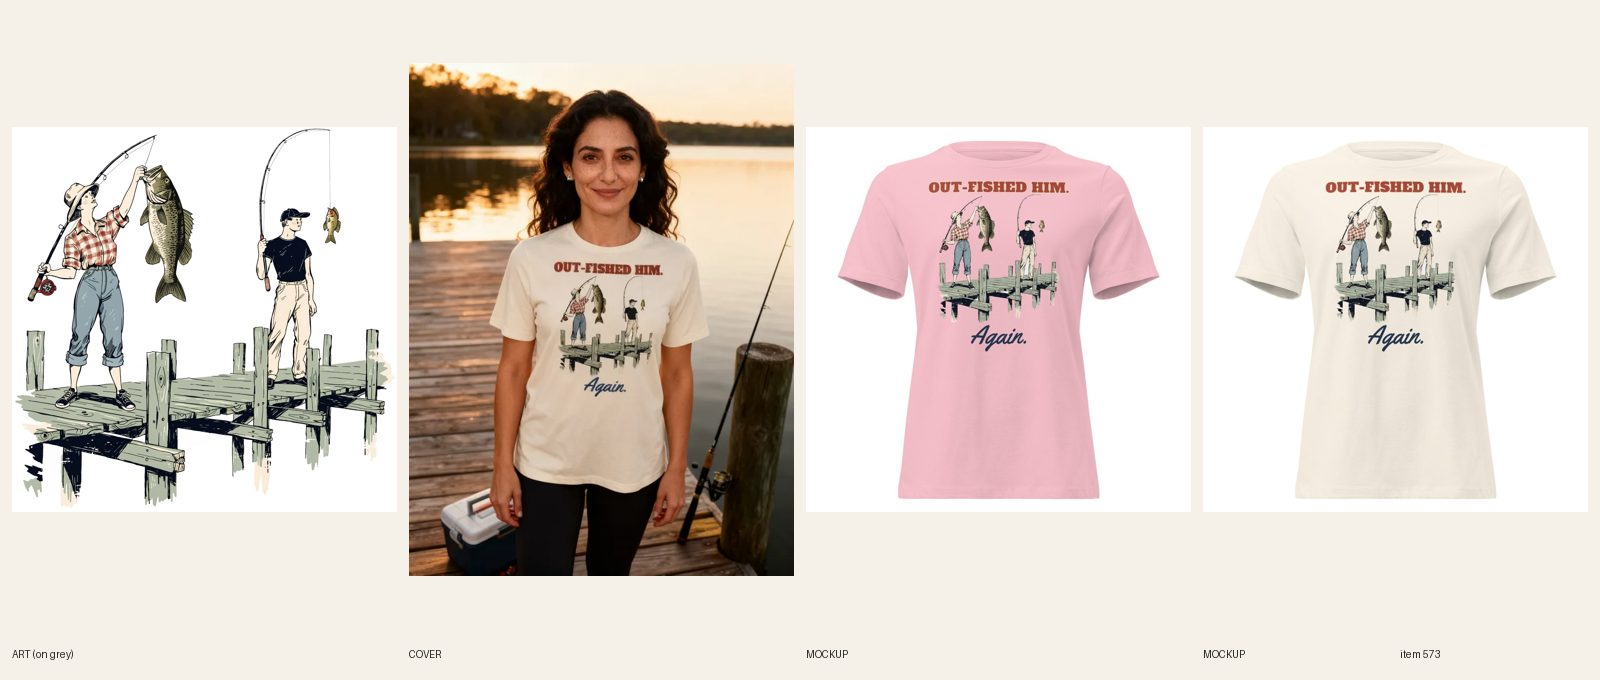
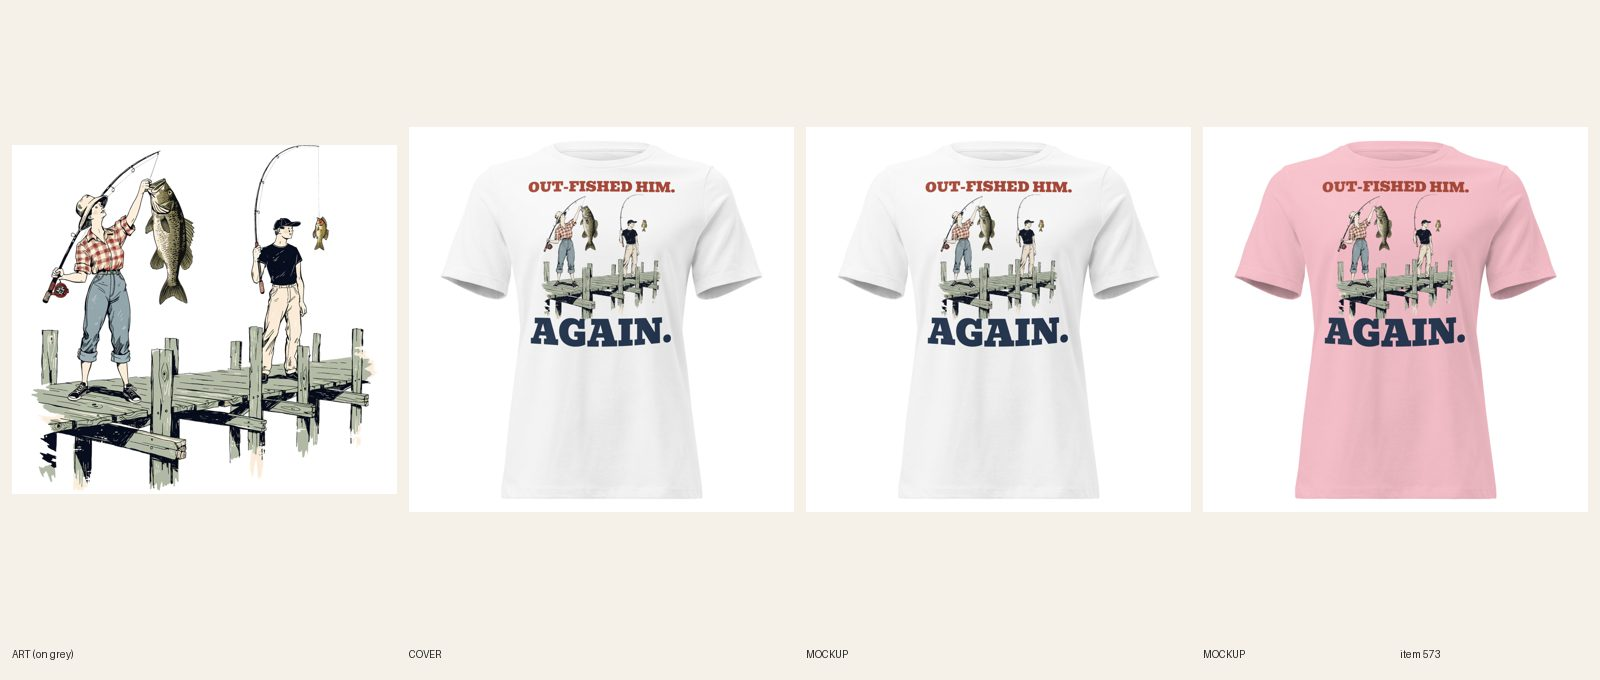
[B] review 573 Fishing tee redo (type)

diff --git a/docs/pipeline/573-fishing-womens-tee-out-fished-him-again.md b/docs/pipeline/573-fishing-womens-tee-out-fished-him-again.md
@@ -1,4 +1,4 @@
-status: REDO
+status: REVIEW
 lane: B
 type: new
 id: 573
@@ -32,3 +32,4 @@ shopify: gid://shopify/Product/15364655022384
 - 2026-10-18 05:03 UTC [B]: synced 36/36, REVIEW. Phone-size read OK on every color mockup (both lines; red lettering keeps its cream keyline on Heather Mauve). R6.2: no ring, panel or typeset line; no frame or badge. Audit-local PASS. fal $0.14 (2 art calls + cover).
 - 2026-10-18 05:21 UTC director: LIVE. Sheet reviewed (R3/R4/R5/R6/R8/R13.3 pass); Printful file checked on every variant; ACTIVE + Online Store/Headless/Google & YouTube; cohesion-audit --handle PASS (0 warn). Copy/meta: the man no longer "shrugs" (he holds up the tiny fish in the art); bucket hat to sun hat.
 - 2026-10-18 17:22 UTC director: QUALITY RESET grade B (type only), REDO. The product stays ACTIVE (same handle, URL, title keyword). Keep the line "OUT-FISHED HIM. / Again." and the art. 1. Type: No type on art panel; headline narrower than art, thin navy script "Again.". 2. Quality reset type bar (docs/backlog/quality-reset.md, 'The new bar'): headline at least 90% of the art width, heavy, colors pulled from the art; second line at least 45% of the headline's height, never a thin script on a dark or mid garment; use the lettering as a shape (arch, stacked lockup, words breaking into the art), not a plain bar above and a script line below; no font used on more than 1 in 6 of the last 30 designs. 3. New print file means a new cover per R6.10 and a fresh review sheet (R7.7). While quality-reset.md says PAUSED, only lane A builds, and only the samples step 2 names.
+- 2026-10-20 10:29 UTC builder [B]: REDO 573 (B grade, type only) done in place (stays ACTIVE; line OUT-FISHED HIM. / AGAIN. and art kept; title unchanged; the lettering sentence in the copy updated). New lockup: OUT-FISHED HIM. in Bevan faded red and AGAIN. in Bevan navy, both lines 2880 px wide (headline 2880 / punch 2880 = 100%, the punch is the taller line), solid fills, no script. One file (all six colors are light, dark inks; light file logged). FW 1650 TOP 75. Verified 36/36 with the new file on every color (no old ids), back logo kept. 6 fronts replaced in place with new alt. Phone-size read OK on all six. Cover: AI cover shows the old thin script; handle already in retired-covers.json. Sheet docs/review/573.jpg. fal $0.

diff --git a/docs/intake-log.md b/docs/intake-log.md
@@ -1,6 +1,8 @@
 RUNNING director since 2026-10-20 10:28 UTC
 2026-10-20 10:27 UTC — [C] Run summary: 43 lane C redo items to REVIEW this run (#635 554 552 561 323 495 503 622 637 448 563 620 436 621 506 341 415 489 334 465 442 509 450 368 397 405 398 508 364 371 516 526 524 528 571 626 607 346 553 468 572 636, plus round-2 fixes on #448 #495 #621 #436 #506 #341 #397 #509 #507 after director notes). 17 line redos retitled (card 7i), punch widths logged (card 7h), every variant relinked and verified on the Printful API before REVIEW. Not built: #457/#458 Hanukkah (R3.15), #604 (waits on source #543, still REDO in lane B). 12 READY items left untouched (R5.2 favorites proof not fetchable here, same as lanes B/E). fal $0, no secrets committed. Lock released.
 2026-10-20 10:16 UTC — [A] Builder run: redid #586 Women's Christmas Capybara tee (line+type: THE LIGHTS WON. / I'M FINE., same capybara-in-lights art, Alfa Slab full width, file 1090290293, 30/30 relinked, 5 fronts replaced in place, copy updated, plain product shot). REVIEW. fal $0.
+RUNNING director since 2026-10-20 09:15 UTC
+2026-10-20 10:29 UTC — [B] Builder run: redid #573 Women's Fishing tee (type only: OUT-FISHED HIM. / AGAIN. in Bevan, punch at full headline width, same dock art, 36/36 synced). REVIEW. fal $0.
 2026-10-20 10:00 UTC — [A] Builder run: redid #580 Men's Drummer Professionally Loud tee (line+type: IT'S NOT ME. / IT'S THE DRUMS., same jazz-club drummer art, Bowlby One full width, light file 1090276133 / dark file 1090276150, 56/56 relinked, 8 fronts replaced in place, copy updated, plain product shot). REVIEW. fal $0.
 RUNNING helper since 2026-10-20 09:47 UTC
 2026-10-20 10:14 UTC — [B] Builder run: redid #575 Men's Christian tee (line + type: STILL UNDER / CONSTRUCTION., same workbench art, Fraunces, cream/gold file on 5 dark colors + dark-ink file on 4 light, 63/63 synced). REVIEW. fal $0.
